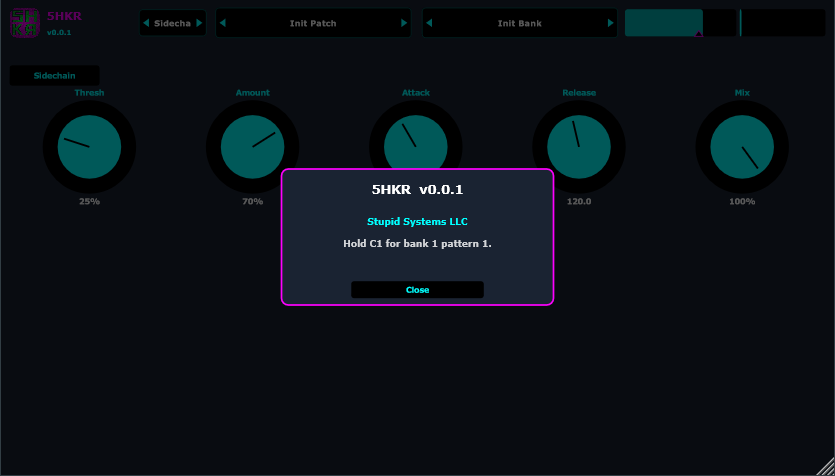
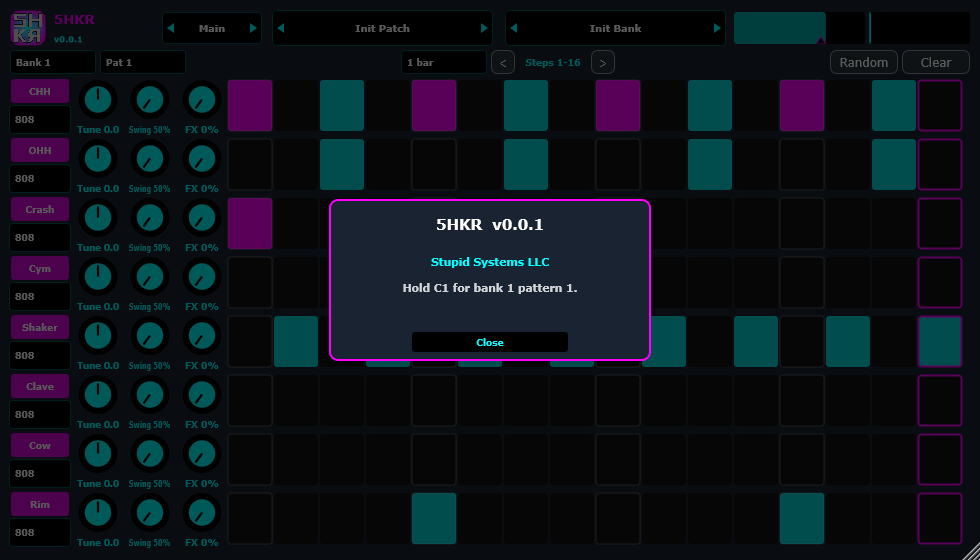
refresh docs screenshots
- capture main, effects, eq, sidechain, and about
- match the homepage to the current pages

diff --git a/docs/index.html b/docs/index.html
@@ -12,6 +12,8 @@
     <a class="brand" href="#top"><img src="logo.png" alt="" width="36" height="36">5HKR</a>
     <nav>
       <a href="#main">Main</a>
+      <a href="#effects">Effects</a>
+      <a href="#eq">EQ</a>
       <a href="#sidechain">Sidechain</a>
       <a href="notes.html?doc=MANUAL.md">Manual</a>
       <a href="#notes">Notes</a>
@@ -26,7 +28,7 @@
         <p class="tag">Shaker. Perc groove box.</p>
       </div>
     </div>
-    <p>Eight synth lanes on a 16th-note grid, pattern banks, per-lane swing and loop length, and a sidechain duck. Not a sample player.</p>
+    <p>Eight synth lanes on a 16th-note grid, pattern banks, per-lane swing and FX send, delay / reverb / chorus / flanger / phaser, post EQ, and a sidechain duck. Not a sample player.</p>
     <p class="actions">
       <a class="download" href="https://github.com/iamtew/5HKR/releases/latest">Download</a>
       <a href="https://github.com/iamtew/5HKR">GitHub</a>
@@ -35,16 +37,34 @@
 
     <section id="main" class="card">
       <h2>Main</h2>
-      <p>CHH, OHH, Crash, Cym, Shaker, Clave, Cow, Rim. Click a cell off → on (cyan) → accent (magenta). Right-click sets that lane’s loop end. Tune ±12 st and swing per lane. Length 1 / 2 / 4 bars.</p>
+      <p>CHH, OHH, Crash, Cym, Shaker, Clave, Cow, Rim. The lane name mutes. The kit menu picks 707 / 808 / 909 / Linn for that lane. Click a cell off → on (cyan) → accent (magenta). Right-click sets that lane’s loop end. Tune, swing, and FX send per lane. Bank / Pat, length 1 / 2 / 4 bars, Random / Clear.</p>
       <figure>
         <img class="shot" src="main.png" alt="5HKR main page: eight lanes and step grid">
         <figcaption>Main — lanes, grid, bank / pattern / length.</figcaption>
       </figure>
     </section>
 
+    <section id="effects" class="card">
+      <h2>Effects</h2>
+      <p>Click a name in the left rail to turn it on. Drag rails to reorder. Chorus, Delay, Flanger, Phaser, Reverb, each with its own Mix. Lane FX must be up or the chain is silent.</p>
+      <figure>
+        <img class="shot" src="effects.png" alt="5HKR effects page with delay and reverb">
+        <figcaption>Effects — Delay and Reverb in the chain.</figcaption>
+      </figure>
+    </section>
+
+    <section id="eq" class="card">
+      <h2>EQ</h2>
+      <p>Post-effects 5-band EQ. Toggle EQ, drag nodes for frequency and gain, scroll for Q. The inspector sits on the left.</p>
+      <figure>
+        <img class="shot" src="eq.png" alt="5HKR five-band EQ page">
+        <figcaption>EQ — five bands after the effects chain.</figcaption>
+      </figure>
+    </section>
+
     <section id="sidechain" class="card">
       <h2>Sidechain</h2>
-      <p>Ducks the lanes from the plugin audio input. Sidechain off by default. HP / LP pick the key, Listen previews it. Thresh, Amount, Attack, Release, Mix. Title bar chevrons cycle Main and Sidechain. Click <strong>5HKR</strong> for About.</p>
+      <p>Ducks the lanes from the plugin audio input. Off until you turn it on. HP / LP pick the key, Listen previews it. Thresh, Amount, Attack, Release, Mix. The plot under the knobs is that filtered key. Title bar chevrons cycle the pages. Click <strong>5HKR</strong> for About.</p>
       <figure>
         <img class="shot" src="sidechain.png" alt="5HKR sidechain page">
         <figcaption>Sidechain — duck from the audio input.</figcaption>

diff --git a/docs/notes.html b/docs/notes.html
@@ -12,6 +12,8 @@
     <a class="brand" href="index.html"><img src="logo.png" alt="" width="36" height="36">5HKR</a>
     <nav>
       <a href="index.html#main">Main</a>
+      <a href="index.html#effects">Effects</a>
+      <a href="index.html#eq">EQ</a>
       <a href="index.html#sidechain">Sidechain</a>
       <a href="notes.html?doc=MANUAL.md">Manual</a>
       <a href="index.html#notes">Notes</a>

diff --git a/docs/style.css b/docs/style.css
@@ -41,7 +41,7 @@ header {
   text-decoration: none;
 }
 
-nav { display: flex; gap: 0.4rem; }
+nav { display: flex; flex-wrap: wrap; gap: 0.4rem; }
 
 nav a {
   color: var(--cyan);
